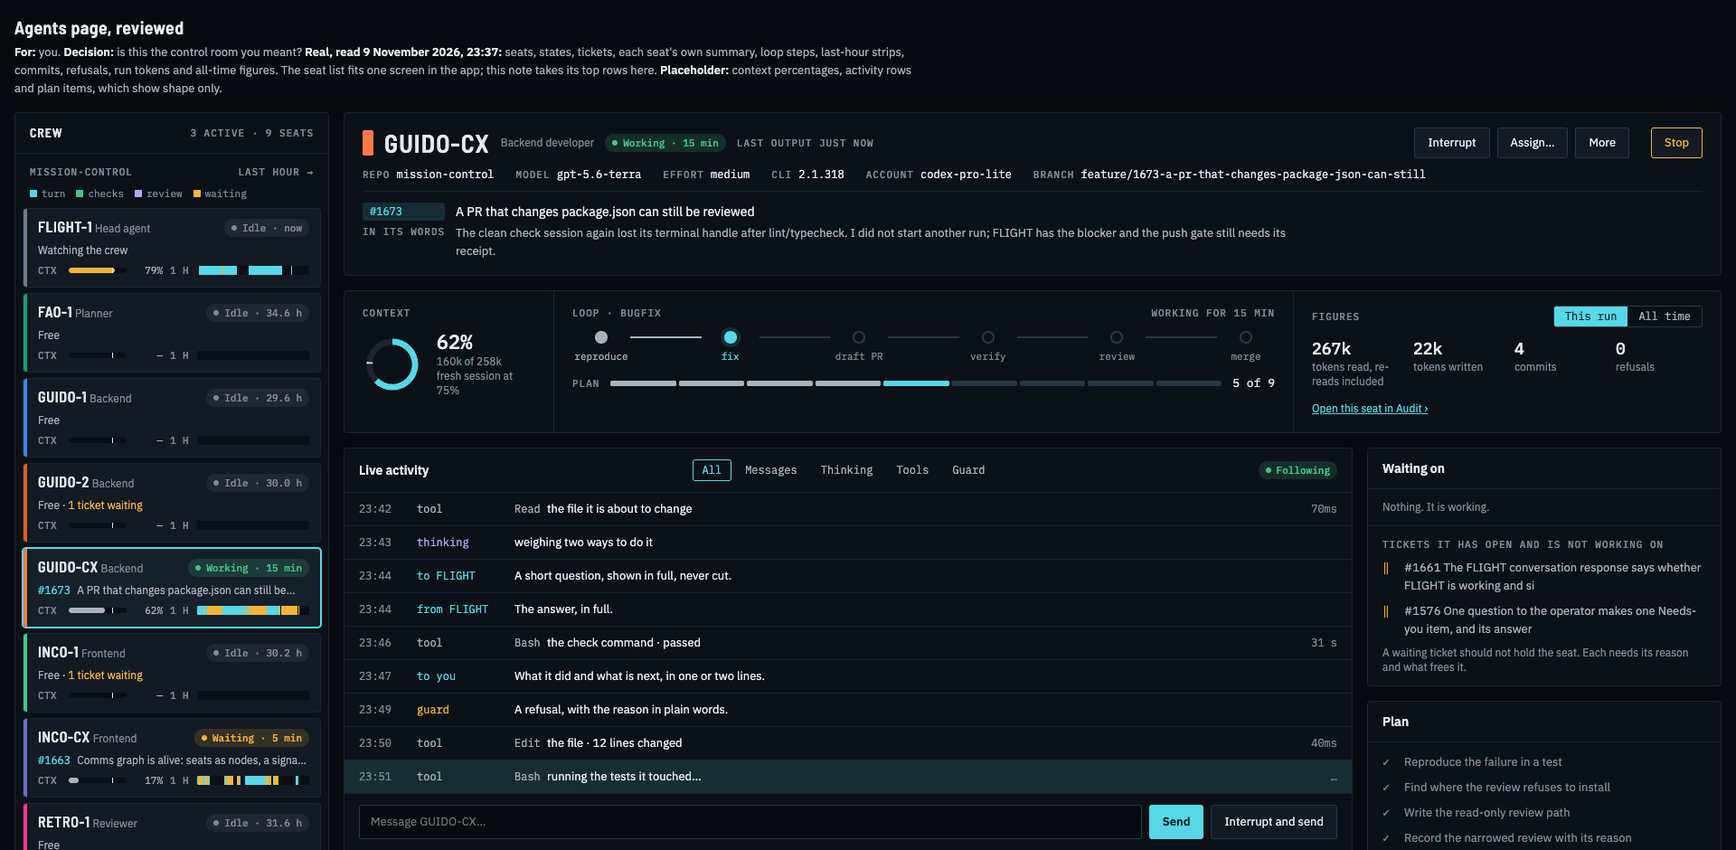
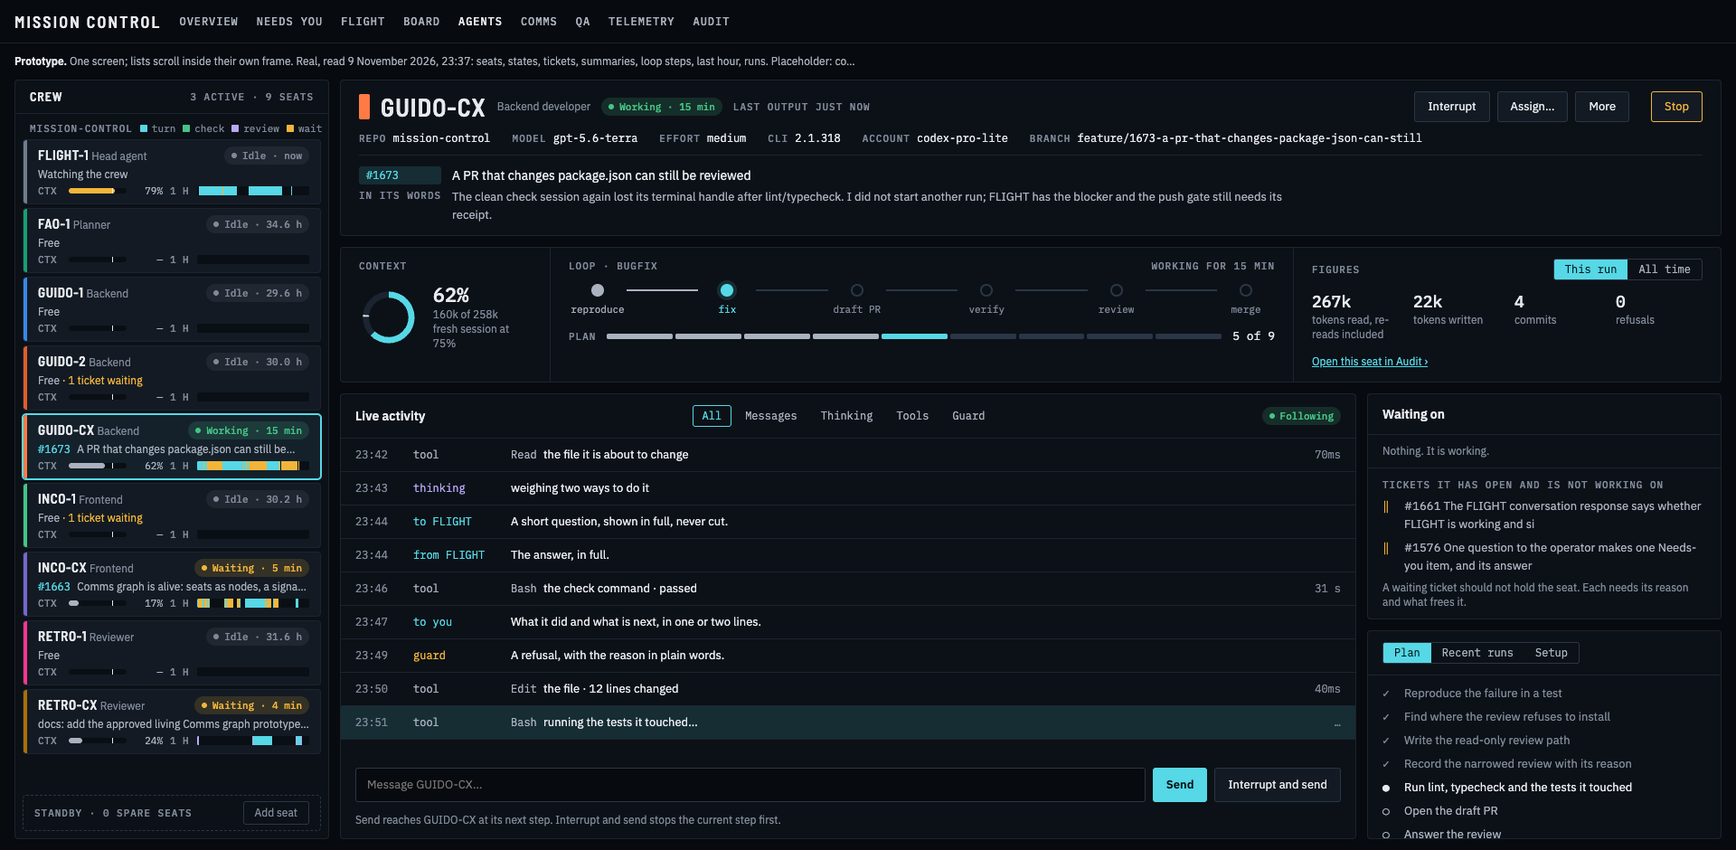
docs: Agents page prototype fits one screen with fixed panels

diff --git a/docs/prototype/agents-page-revised.html b/docs/prototype/agents-page-revised.html
@@ -6,12 +6,14 @@
 :root{color-scheme:dark;--bg:#070a0e;--surface:#0c1117;--surface-2:#131a23;--line:#1b2430;--line-2:#2a3646;--fg:#e7eaef;--fg-2:#aab2bf;--muted:#808999;--accent:#56d8e6;--accent-ink:#021417;--accent-soft:rgba(86,216,230,.14);--ok:#45c486;--ok-soft:rgba(69,196,134,.16);--warn:#f2b53a;--warn-soft:rgba(242,181,58,.15);--crit:#f1706d;--think:#b8a8f7;
 --sans:"IBM Plex Sans","Segoe UI",system-ui,sans-serif;--mono:"IBM Plex Mono",Consolas,ui-monospace,monospace;--display:"Barlow Semi Condensed","Arial Narrow",sans-serif}
 *{box-sizing:border-box}
-body{background:var(--bg);color:var(--fg);font:13px/20px var(--sans);padding-block:16px 40px;padding-left:max(16px,env(safe-area-inset-left,0px));padding-right:max(16px,env(safe-area-inset-right,0px))}
-main{max-width:1888px;margin:0 auto;display:flex;flex-direction:column;gap:16px}
+html,body{height:100%}
+body{background:var(--bg);color:var(--fg);font:13px/20px var(--sans);padding-block:0;padding-left:max(16px,env(safe-area-inset-left,0px));padding-right:max(16px,env(safe-area-inset-right,0px))}
+main{height:100%;margin:0 auto;display:grid;grid-template-rows:auto auto minmax(0,1fr);gap:12px;padding-block:0 12px}
+.top{display:flex;align-items:center;gap:20px;height:48px;border-bottom:1px solid var(--line);margin:0 -16px;padding:0 16px}.top b{font:600 18px/24px var(--display);letter-spacing:.12em}.top span{font:500 12px/16px var(--mono);letter-spacing:.08em;color:var(--fg-2)}.top span.on{color:var(--fg);box-shadow:0 17px 0 -15px var(--accent)}
+.intro{font-size:12px;line-height:16px}.intro p{white-space:nowrap;overflow:hidden;text-overflow:ellipsis;max-width:none}
 .intro p{margin:0;color:var(--fg-2);max-width:130ch}.intro b{color:var(--fg)}
 h1{font:600 20px/28px var(--display);letter-spacing:.02em;margin:0 0 4px}
-.app{display:grid;grid-template-columns:348px minmax(0,1fr);gap:16px;align-items:start}
-@media(max-width:1100px){.app{grid-template-columns:minmax(0,1fr)}}
+.app{display:grid;grid-template-columns:348px minmax(0,1fr);gap:12px;align-items:stretch;min-height:0}
 .panel{background:var(--surface);border:1px solid var(--line);border-radius:4px;min-width:0}
 .lbl{font:500 11px/16px var(--mono);letter-spacing:.09em;text-transform:uppercase;color:var(--muted)}
 .num{font-family:var(--mono);font-variant-numeric:tabular-nums}
@@ -19,17 +21,17 @@ button{font:inherit;color:inherit}
 :focus-visible{outline:2px solid var(--accent);outline-offset:2px}
 
 /* roster */
-.roster{display:flex;flex-direction:column}
-.rhead{display:flex;justify-content:space-between;align-items:center;padding:12px 16px;border-bottom:1px solid var(--line)}
+.roster{display:flex;flex-direction:column;min-height:0;overflow:hidden}
+.rhead{display:flex;justify-content:space-between;align-items:center;padding:8px 16px;border-bottom:1px solid var(--line)}
 .rhead b{font:600 14px/20px var(--display);letter-spacing:.06em;text-transform:uppercase}
-.grp{display:flex;justify-content:space-between;padding:12px 16px 8px}
-.cards{display:flex;flex-direction:column;gap:6px;padding:0 8px 8px}
+.grp{display:flex;justify-content:space-between;padding:8px 16px 4px}
+.cards{display:flex;flex-direction:column;gap:4px;padding:0 8px 8px;flex:1;min-height:0;overflow-y:auto}
 .card{display:grid;grid-template-columns:4px minmax(0,1fr);gap:0 12px;background:var(--surface-2);border:1px solid var(--line);border-radius:4px;padding:0;text-align:left;cursor:pointer;overflow:hidden}
 .card[aria-current="true"]{border-color:var(--accent);background:#14212b;box-shadow:0 0 0 1px var(--accent)}
 .card .bar{grid-row:1/5}
-.card .in{padding:10px 12px 10px 0;display:grid;gap:6px;min-width:0}
+.card{flex:0 0 auto}.card .in{padding:6px 12px 6px 0;display:grid;gap:2px;min-width:0}
 .r1{display:flex;align-items:center;justify-content:space-between;gap:8px;min-width:0}.r1>span:first-child{white-space:nowrap;overflow:hidden;text-overflow:ellipsis;min-width:0}
-.name{font:600 16px/20px var(--display);letter-spacing:.04em}
+.name{font:600 15px/20px var(--display);letter-spacing:.04em}
 .role{color:var(--muted);font-size:12px;line-height:16px}
 .pill{font:500 11px/16px var(--mono);padding:2px 8px;border-radius:10px;white-space:nowrap;display:inline-flex;gap:6px;align-items:center}
 .pill i{width:6px;height:6px;border-radius:50%;background:currentColor}
@@ -37,18 +39,18 @@ button{font:inherit;color:inherit}
 .work{color:var(--fg-2);font-size:12px;line-height:16px;display:-webkit-box;-webkit-line-clamp:1;-webkit-box-orient:vertical;overflow:hidden}
 .work .tk{color:var(--accent);font-family:var(--mono)}
 .inst{display:grid;grid-template-columns:26px 64px 32px 22px minmax(0,1fr);gap:8px;align-items:center}
-.inst .lbl{letter-spacing:.04em}.meter u{position:absolute;left:75%;top:0;bottom:0;width:1px;background:var(--fg)}.legend{display:flex;gap:12px;padding:0 16px 8px;flex-wrap:wrap}.legend span{font:11px/16px var(--mono);color:var(--muted);display:inline-flex;gap:5px;align-items:center}.legend i{width:8px;height:8px;border-radius:1px}.open{color:var(--warn)}
+.inst .lbl{letter-spacing:.04em}.meter u{position:absolute;left:75%;top:0;bottom:0;width:1px;background:var(--fg)}.legend{display:flex;gap:8px;flex-wrap:nowrap}.grp>.lbl{white-space:nowrap}.grp{align-items:center;gap:8px}.legend span{font:11px/16px var(--mono);color:var(--muted);display:inline-flex;gap:5px;align-items:center}.legend i{width:8px;height:8px;border-radius:1px}.open{color:var(--warn)}
 .meter{height:6px;background:#0a0f15;border-radius:3px;position:relative;overflow:hidden}
 .meter b{position:absolute;inset:0 auto 0 0;border-radius:3px}
 .strip{height:10px;background:#0a0f15;border-radius:2px;position:relative;overflow:hidden}
 .strip i{position:absolute;top:0;bottom:0}
 .inst .v{font:11px/16px var(--mono);color:var(--fg-2);text-align:right}
-.slot{margin:0 8px 12px;border:1px dashed var(--line-2);border-radius:4px;padding:12px 16px;color:var(--muted);font-size:12px;line-height:16px;display:flex;justify-content:space-between;align-items:center;gap:12px}
+.slot{margin:4px 8px 8px;border:1px dashed var(--line-2);border-radius:4px;padding:6px 12px;color:var(--muted);font-size:12px;line-height:16px;display:flex;justify-content:space-between;align-items:center;gap:12px}
 .ghost{background:none;border:1px solid var(--line-2);border-radius:3px;padding:4px 12px;cursor:pointer;white-space:nowrap}
 
 /* seat */
-.seat{display:flex;flex-direction:column;gap:16px;min-width:0}
-.ident{display:grid;grid-template-columns:minmax(0,1fr) auto;gap:8px 24px;padding:16px 20px;align-items:center}
+.seat{display:grid;grid-template-rows:auto auto minmax(0,1fr);gap:12px;min-width:0;min-height:0}
+.ident{display:grid;grid-template-columns:minmax(0,1fr) auto;gap:8px 24px;padding:12px 20px;align-items:center}
 .idl{display:flex;align-items:center;gap:12px;flex-wrap:wrap;min-width:0}
 .sw{width:12px;height:28px;border-radius:2px}
 .big{font:600 28px/32px var(--display);letter-spacing:.04em}
@@ -57,11 +59,11 @@ button{font:inherit;color:inherit}
 .btn.pri{background:var(--accent);border-color:var(--accent);color:var(--accent-ink);font-weight:600}.btn.stop{border-color:var(--warn);color:var(--warn)}
 .meta{grid-column:1/3;display:flex;flex-wrap:wrap;gap:4px 24px;color:var(--fg-2)}.meta .num{color:var(--fg);font-size:12px;overflow-wrap:anywhere}
 .say{grid-column:1/3;display:grid;grid-template-columns:auto minmax(0,1fr);gap:4px 12px;border-top:1px solid var(--line);padding-top:12px}
-.say .t{font-size:14px;line-height:20px}.say .s{color:var(--fg-2);max-width:120ch}
+.say .t{font-size:14px;line-height:20px}.say .s{color:var(--fg-2);max-width:120ch;display:-webkit-box;-webkit-line-clamp:2;-webkit-box-orient:vertical;overflow:hidden}
 .chip{font:12px/16px var(--mono);color:var(--accent);background:var(--accent-soft);border-radius:3px;padding:2px 8px;white-space:nowrap}
 .instr{display:grid;grid-template-columns:232px minmax(0,1fr) 472px}
-@media(max-width:1500px){.instr{grid-template-columns:minmax(0,1fr)}}
-.cell{padding:16px 20px;border-right:1px solid var(--line);min-width:0;display:flex;flex-direction:column;gap:12px}.cell:last-child{border-right:0}
+@media(max-width:1100px){.instr{grid-template-columns:minmax(0,1fr)}}
+.cell{padding:12px 20px;border-right:1px solid var(--line);min-width:0;display:flex;flex-direction:column;gap:12px}.cell:last-child{border-right:0}
 .dial{display:flex;align-items:center;gap:16px}
 .dial .n{font:500 22px/24px var(--mono)}.dial small{display:block;color:var(--muted);font:12px/16px var(--sans)}
 .track{display:flex;align-items:center}
@@ -78,8 +80,9 @@ button{font:inherit;color:inherit}
 .seg button[aria-pressed="true"]{background:var(--accent);color:var(--accent-ink)}
 .stats{display:grid;grid-template-columns:repeat(4,minmax(0,1fr));gap:16px}
 .stat .n{font:500 18px/24px var(--mono)}.stat .n.flag{color:var(--warn)}.stat small{display:block;color:var(--muted);font:12px/16px var(--sans)}
-.cols{display:grid;grid-template-columns:minmax(0,1fr) 392px;gap:16px;align-items:start}
-@media(max-width:1300px){.cols{grid-template-columns:minmax(0,1fr)}}
+.cols{display:grid;grid-template-columns:minmax(0,1fr) 392px;gap:12px;align-items:stretch;min-height:0}
+#live{display:flex;flex-direction:column;min-height:0}.feed{flex:1;min-height:0;overflow-y:auto}
+@media(max-width:1100px){html,body,main{height:auto}main{display:flex;flex-direction:column}.app,.cols{grid-template-columns:minmax(0,1fr)}.seat{display:flex;flex-direction:column}.feed,.tbody,.cards{overflow:visible}}
 .ph{display:flex;justify-content:space-between;align-items:center;gap:12px;padding:12px 16px;border-bottom:1px solid var(--line);flex-wrap:wrap}
 .ph b{font:600 14px/20px var(--sans)}
 .tabs{display:flex;gap:4px}.tabs span{font:12px/16px var(--mono);padding:3px 10px;border-radius:3px;color:var(--fg-2);border:1px solid transparent}.tabs span.on{border-color:var(--accent);color:var(--accent)}
@@ -91,18 +94,16 @@ button{font:inherit;color:inherit}
 .compose{display:grid;grid-template-columns:minmax(0,1fr) auto auto;gap:8px;padding:12px 16px}
 .compose input{background:var(--bg);border:1px solid var(--line-2);border-radius:3px;color:var(--fg);padding:8px 12px;font:13px/20px var(--sans);min-width:0}
 .hint{padding:0 16px 12px;color:var(--muted);font-size:12px;line-height:16px}
-.side{display:flex;flex-direction:column;gap:16px}
-.box{padding:12px 16px;display:flex;flex-direction:column;gap:8px}
+.side{display:flex;flex-direction:column;gap:12px;min-height:0;overflow:hidden}.side>.panel:first-child{flex:0 1 auto;min-height:56px;overflow-y:auto}.tabbed{flex:1;min-height:0;display:flex;flex-direction:column}.tbody{flex:1;min-height:0;overflow-y:auto}
+.box{padding:10px 16px;display:flex;flex-direction:column;gap:6px}
 .hrow{display:grid;grid-template-columns:52px minmax(0,1fr) auto 48px;gap:8px;align-items:baseline;color:var(--fg-2)}.hrow span:nth-child(2){white-space:nowrap;overflow:hidden;text-overflow:ellipsis}.hrow .num{font-size:12px;color:var(--accent)}.hrow .num:last-child{color:var(--muted);text-align:right}
 .todo{display:grid;grid-template-columns:16px minmax(0,1fr);gap:8px;color:var(--fg-2)}.todo.c{color:var(--fg)}.todo.d{color:var(--muted)}
 .todo i{font-style:normal;font-family:var(--mono)}
 dl{display:grid;grid-template-columns:104px minmax(0,1fr);gap:8px 12px;margin:0;padding:12px 16px}dt{color:var(--muted)}dd{margin:0;overflow-wrap:anywhere}dd a,.ph a{color:var(--accent)}
 </style>
 <main>
-  <div class="intro">
-    <h1>Agents page, reviewed</h1>
-    <p><b>For:</b> you. <b>Decision:</b> is this the control room you meant? <b>Real, read 9 November 2026, 23:37:</b> seats, states, tickets, each seat's own summary, loop steps, last-hour strips, commits, refusals, run tokens and all-time figures. The seat list fits one screen in the app; this note takes its top rows here. <b>Placeholder:</b> context percentages, activity rows and plan items, which show shape only.</p>
-  </div>
+  <div class="top"><b>MISSION CONTROL</b><span>OVERVIEW</span><span>NEEDS YOU</span><span>FLIGHT</span><span>BOARD</span><span class="on">AGENTS</span><span>COMMS</span><span>QA</span><span>TELEMETRY</span><span>AUDIT</span></div>
+  <div class="intro"><p><b>Prototype.</b> One screen; lists scroll inside their own frame. Real, read 9 November 2026, 23:37: seats, states, tickets, summaries, loop steps, last hour, runs. Placeholder: context %, activity rows, plan items.</p></div>
   <div class="app">
     <div class="panel roster" id="roster"></div>
     <div class="seat">
@@ -129,12 +130,12 @@ const tk=s=>s.ticket?s.ticket.replace("mission-control",""):"";
 const k=n=>n>=1e6?(n/1e6).toFixed(1)+"M":n>=1e3?Math.round(n/1e3)+"k":String(n);
 const held=s=>s.hist.filter(h=>h.status==="running"&&h.ticket!==tk(s));
 const silent=s=>s.state==="running"&&D.now-s.lastOut>10*60000;
-let cur=(seats.find(s=>s.state==="running")||seats[0]).id,mode="run";
+let cur=(seats.find(s=>s.state==="running")||seats[0]).id,mode="run",tab=null;
 function roster(){const r=document.getElementById("roster");r.textContent="";
   const h=el("div","rhead");h.append(el("b","","Crew"),el("span","lbl",seats.filter(s=>s.state!=="idle").length+" active · "+seats.length+" seats"));r.append(h);
-  const g=el("div","grp");g.append(el("span","lbl","mission-control"),el("span","lbl","last hour →"));r.append(g);const lg=el("div","legend");for(const [n,c] of [["turn","#56d8e6"],["checks","#45c486"],["review","#b8a8f7"],["waiting","#f2b53a"]]){const s=el("span");const i=el("i");i.style.background=c;s.append(i,document.createTextNode(n));lg.append(s);}r.append(lg);
+  const g=el("div","grp");const lg=el("div","legend");g.append(el("span","lbl","mission-control"),lg);g.title="Colours of the last-hour strip";r.append(g);for(const [n,c] of [["turn","#56d8e6"],["check","#45c486"],["review","#b8a8f7"],["wait","#f2b53a"]]){const s=el("span");const i=el("i");i.style.background=c;s.append(i,document.createTextNode(n));lg.append(s);}
   const cs=el("div","cards");
-  for(const s of seats){const c=el("button","card");c.setAttribute("aria-current",s.id===cur);c.onclick=()=>{cur=s.id;roster();seat();};
+  for(const s of seats){const c=el("button","card");c.setAttribute("aria-current",s.id===cur);c.onclick=()=>{cur=s.id;tab=null;roster();seat();};
     const bar=el("span","bar");bar.style.background=HUE[s.id];const inn=el("span","in");
     const r1=el("span","r1");const nm=el("span");nm.append(el("span","name",s.id.toUpperCase()),el("span","role"," "+s.short));r1.append(nm,pill(s));
     const w=el("span","work");if(s.roleKey==="FLIGHT")w.textContent="Watching the crew";else if(s.state==="idle"){w.textContent="Free";const o=held(s).length;if(o)w.append(el("span","open"," · "+o+(o===1?" ticket":" tickets")+" waiting"));}else{if(s.ticket)w.append(el("span","tk",tk(s)+" "));w.append(document.createTextNode(s.title||(s.roleKey==="FLIGHT"?"Running the crew":"Reviewing")));}
@@ -142,8 +143,7 @@ function roster(){const r=document.getElementById("roster");r.textContent="";
     const st=el("span","strip");for(const [a,z,kd] of s.spans){const i=el("i"),wd=D.now-D.from;i.style.left=(a-D.from)/wd*100+"%";i.style.width=Math.max(.7,(z-a)/wd*100)+"%";i.style.background=KIND[kd]||"#56d8e6";st.append(i);}
     ins.append(el("span","lbl","CTX"),m,el("span","v",live?s.ctx+"%":"—"),el("span","lbl","1 H"),st);
     inn.append(r1,w,ins);c.append(bar,inn);cs.append(c);}
-  r.append(cs);const g2=el("div","grp");g2.append(el("span","lbl","Standby · not assigned"),el("span","lbl","0"));r.append(g2);
-  const slot=el("div","slot");slot.append(el("span","","No spare seats. A seat with no repo waits here."),el("button","ghost","Add seat"));r.append(slot);}
+  r.append(cs);const slot=el("div","slot");slot.append(el("span","lbl","Standby · 0 spare seats"),el("button","ghost","Add seat"));r.append(slot);}
 function ring(p){const R=26,C=2*Math.PI*R,ns="http://www.w3.org/2000/svg",s=document.createElementNS(ns,"svg");s.setAttribute("width",68);s.setAttribute("height",68);s.setAttribute("viewBox","0 0 68 68");s.setAttribute("role","img");s.setAttribute("aria-label","Context "+p+" percent used");
   const mk=(st,da,off)=>{const c=document.createElementNS(ns,"circle");c.setAttribute("cx",34);c.setAttribute("cy",34);c.setAttribute("r",R);c.setAttribute("fill","none");c.setAttribute("stroke",st);c.setAttribute("stroke-width",7);c.setAttribute("transform","rotate(-90 34 34)");if(da){c.setAttribute("stroke-dasharray",da);c.setAttribute("stroke-linecap","butt");}if(off!=null)c.setAttribute("stroke-dashoffset",off);return c;};
   s.append(mk("#1b2430"),mk(p>=75?"#f2b53a":"#56d8e6",(C*p/100)+" "+C));const t=mk("#e7eaef","2 "+C,-(C*.75));s.append(t);return s;}
@@ -171,21 +171,23 @@ function seat(){const s=seats.find(x=>x.id===cur);
     else if(s.rev){add((s.rev[1]/s.rev[0]).toFixed(1),"blocking per review",s.rev[1]/s.rev[0]>=2);add((s.rev[2]/s.rev[0]).toFixed(1),"minor per review");}
     else{add(L.hours.toLocaleString(),"hours in runs");add(L.cost==null?"—":"$"+L.cost.toLocaleString(),"cost, all time");}}
   c3.append(st);const more=el("a","","Open this seat in Audit ›");more.href="#";more.style.cssText="color:var(--accent);font-size:12px";c3.append(more);ins.append(c1,c2,c3);
-  const lv=document.getElementById("live");lv.textContent="";const ph=el("div","ph");ph.append(el("b","","Live activity"));const tb=el("div","tabs");["All","Messages","Thinking","Tools","Guard"].forEach((t,i)=>tb.append(el("span",i?"":"on",t)));const fl=el("span","pill run");fl.append(el("i"),document.createTextNode("Following"));ph.append(tb,fl);lv.append(ph);
+  const lv=document.getElementById("live");lv.textContent="";const ph=el("div","ph");ph.append(el("b","","Live activity"));const tb=el("div","tabs");["All","Messages","Thinking","Tools","Guard"].forEach((t,i)=>tb.append(el("span",i?"":"on",t)));const fl=el("span","pill run");fl.append(el("i"),document.createTextNode("Following"));ph.append(tb,fl);lv.append(ph);const feed=el("div","feed");feed.tabIndex=0;feed.setAttribute("aria-label","Live activity");lv.append(feed);
   const rows=s.state==="idle"?[]:[["23:42","tool","Read","the file it is about to change","70ms"],["23:43","thinking","","weighing two ways to do it",""],["23:44","to FLIGHT","msg","A short question, shown in full, never cut.",""],["23:44","from FLIGHT","msg","The answer, in full.",""],["23:46","tool","Bash","the check command · passed","31 s"],["23:47","to you","msg","What it did and what is next, in one or two lines.",""],["23:49","guard","grd","A refusal, with the reason in plain words.",""],["23:50","tool","Edit","the file · 12 lines changed","40ms"],["23:51","tool","Bash","running the tests it touched…","live"]];
-  if(!rows.length){const e=el("div","box");e.append(el("span","","No run in progress."),el("span","role","Its last runs are listed on the right; each opens its full trace."));lv.append(e);}
-  for(const [tm,kd,c,x,du] of rows){const r=el("div","row"+(du==="live"?" live":""));const kk=el("span","k"+(c==="msg"?" msg":c==="grd"?" grd":kd==="thinking"?" thk":""),kd);const xx=el("span","x");if(kd==="tool"){const cd=el("code","",c+"  ");xx.append(cd);}xx.append(document.createTextNode(x));r.append(el("span","tm",tm),kk,xx,el("span","du",du==="live"?"…":du));lv.append(r);}
+  if(!rows.length){const e=el("div","box");e.append(el("span","","No run in progress."),el("span","role","Its last runs are listed on the right; each opens its full trace."));feed.append(e);}
+  for(const [tm,kd,c,x,du] of rows){const r=el("div","row"+(du==="live"?" live":""));const kk=el("span","k"+(c==="msg"?" msg":c==="grd"?" grd":kd==="thinking"?" thk":""),kd);const xx=el("span","x");if(kd==="tool"){const cd=el("code","",c+"  ");xx.append(cd);}xx.append(document.createTextNode(x));r.append(el("span","tm",tm),kk,xx,el("span","du",du==="live"?"…":du));feed.append(r);}
   const cp=el("div","compose");const inp=el("input");inp.id="msg";inp.placeholder="Message "+s.id.toUpperCase()+"…";inp.setAttribute("aria-label","Message "+s.id);cp.append(inp,el("button","btn pri","Send"),el("button","btn","Interrupt and send"));lv.append(cp,el("div","hint",s.state==="idle"?"Starts "+s.id.toUpperCase()+"'s next turn.":"Send reaches "+s.id.toUpperCase()+" at its next step. Interrupt and send stops the current step first."));
   const sd=document.getElementById("side");sd.textContent="";
   const w=el("div","panel");const wh=el("div","ph");wh.append(el("b","","Waiting on"));w.append(wh);const wb=el("div","box");
   if(silent(s))wb.append(el("span","open","Silent: no output for "+age(D.now-s.lastOut)+". It may be stuck."));
   if(s.state==="waiting")wb.append(el("span","","CI and review on its pushed commit"),el("span","role","Since "+age(D.now-s.since)+" ago. The seat is free to take other work meanwhile."));else if(!silent(s))wb.append(el("span","role",s.state==="idle"?"Nothing. It is free to take the next Ready ticket in its area.":"Nothing. It is working."));w.append(wb);
   const hl=held(s);if(hl.length){const hb=el("div","box");hb.style.borderTop="1px solid var(--line)";hb.append(el("span","lbl","Tickets it has open and is not working on"));for(const h of hl){const r=el("div","todo");r.append(el("i","open","‖"),el("span","",h.ticket+"  "+h.title));hb.append(r);}hb.append(el("span","role","A waiting ticket should not hold the seat. Each needs its reason and what frees it."));w.append(hb);}sd.append(w);
-  if(s.state!=="idle"&&s.steps.length){const p=el("div","panel");const h2=el("div","ph");h2.append(el("b","","Plan"));p.append(h2);const b=el("div","box");[["d","✓","Reproduce the failure in a test"],["d","✓","Find where the review refuses to install"],["d","✓","Write the read-only review path"],["d","✓","Record the narrowed review with its reason"],["c","●","Run lint, typecheck and the tests it touched"],["","○","Open the draft PR"],["","○","Answer the review"]].forEach(([c,i,t])=>{const r=el("div","todo "+c);r.append(el("i","",i),el("span","",t));b.append(r);});p.append(b);sd.append(p);}
-  const hp=el("div","panel");const hh=el("div","ph");hh.append(el("b","","Recent runs"),el("span","lbl","newest first"));hp.append(hh);const hbx=el("div","box");if(!s.hist.length)hbx.append(el("span","role","None recorded for this seat."));for(const h of s.hist){const r=el("div","hrow");const out=h.status==="running"?(h.ticket===tk(s)?"now":"open"):h.by==="operator"?"ended by you":"finished";r.append(el("span","num",h.ticket||"review"),el("span","",h.title||"—"),el("span","lbl"+(out==="open"?" open":""),out),el("span","num",h.status==="running"?"":age(h.mins*60000)));hbx.append(r);}hp.append(hbx);sd.append(hp);
-  const su=el("div","panel");const sh=el("div","ph");sh.append(el("b","","Setup"));const ed=el("a","","Edit in Setup ›");ed.href="#";ed.style.fontSize="12px";sh.append(ed);su.append(sh);const dl=el("dl");
+  const hasPlan=s.state!=="idle"&&s.steps.length>0;if(!tab||(tab==="Plan"&&!hasPlan))tab=hasPlan?"Plan":"Recent runs";
+  const tp=el("div","panel tabbed");const th2=el("div","ph");const sg2=el("span","seg");for(const n of ["Plan","Recent runs","Setup"]){if(n==="Plan"&&!hasPlan)continue;const b=el("button","",n);b.setAttribute("aria-pressed",tab===n);b.onclick=()=>{tab=n;seat();};sg2.append(b);}th2.append(sg2);if(tab==="Setup"){const ed=el("a","","Edit in Setup ›");ed.href="#";ed.style.fontSize="12px";th2.append(ed);}tp.append(th2);const tbody=el("div","tbody");tp.append(tbody);sd.append(tp);
+  if(tab==="Plan"){const p=tbody;const b=el("div","box");[["d","✓","Reproduce the failure in a test"],["d","✓","Find where the review refuses to install"],["d","✓","Write the read-only review path"],["d","✓","Record the narrowed review with its reason"],["c","●","Run lint, typecheck and the tests it touched"],["","○","Open the draft PR"],["","○","Answer the review"]].forEach(([c,i,t])=>{const r=el("div","todo "+c);r.append(el("i","",i),el("span","",t));b.append(r);});p.append(b);}
+  if(tab==="Recent runs"){const hp=tbody;const hbx=el("div","box");if(!s.hist.length)hbx.append(el("span","role","None recorded for this seat."));for(const h of s.hist){const r=el("div","hrow");const out=h.status==="running"?(h.ticket===tk(s)?"now":"open"):h.by==="operator"?"ended by you":"finished";r.append(el("span","num",h.ticket||"review"),el("span","",h.title||"—"),el("span","lbl"+(out==="open"?" open":""),out),el("span","num",h.status==="running"?"":age(h.mins*60000)));hbx.append(r);}hp.append(hbx);}
+  if(tab==="Setup"){const su=tbody;const dl=el("dl");
   const dd=(a,b,href)=>{dl.append(el("dt","",a));const d=el("dd");if(href){const x=el("a","",b);x.href="#";d.append(x);}else d.textContent=b;dl.append(d);};
-  dd("Assigned to",s.repo);dd("Role",s.role);dd("May change",s.area.length?s.area.join(", "):s.mode==="writer"?"anything in the repo":"nothing; read only");dd("Role prompt","Open the "+s.roleKey+" prompt ›",1);su.append(dl);sd.append(su);}
+  dd("Assigned to",s.repo);dd("Role",s.role);dd("May change",s.area.length?s.area.join(", "):s.mode==="writer"?"anything in the repo":"nothing; read only");dd("Model",(s.model||"—")+(s.effort?" · "+s.effort:""));dd("Account",s.account);dd("Role prompt","Open the "+s.roleKey+" prompt ›",1);su.append(dl);}}
 roster();seat();
 </script>
 </body></html>
